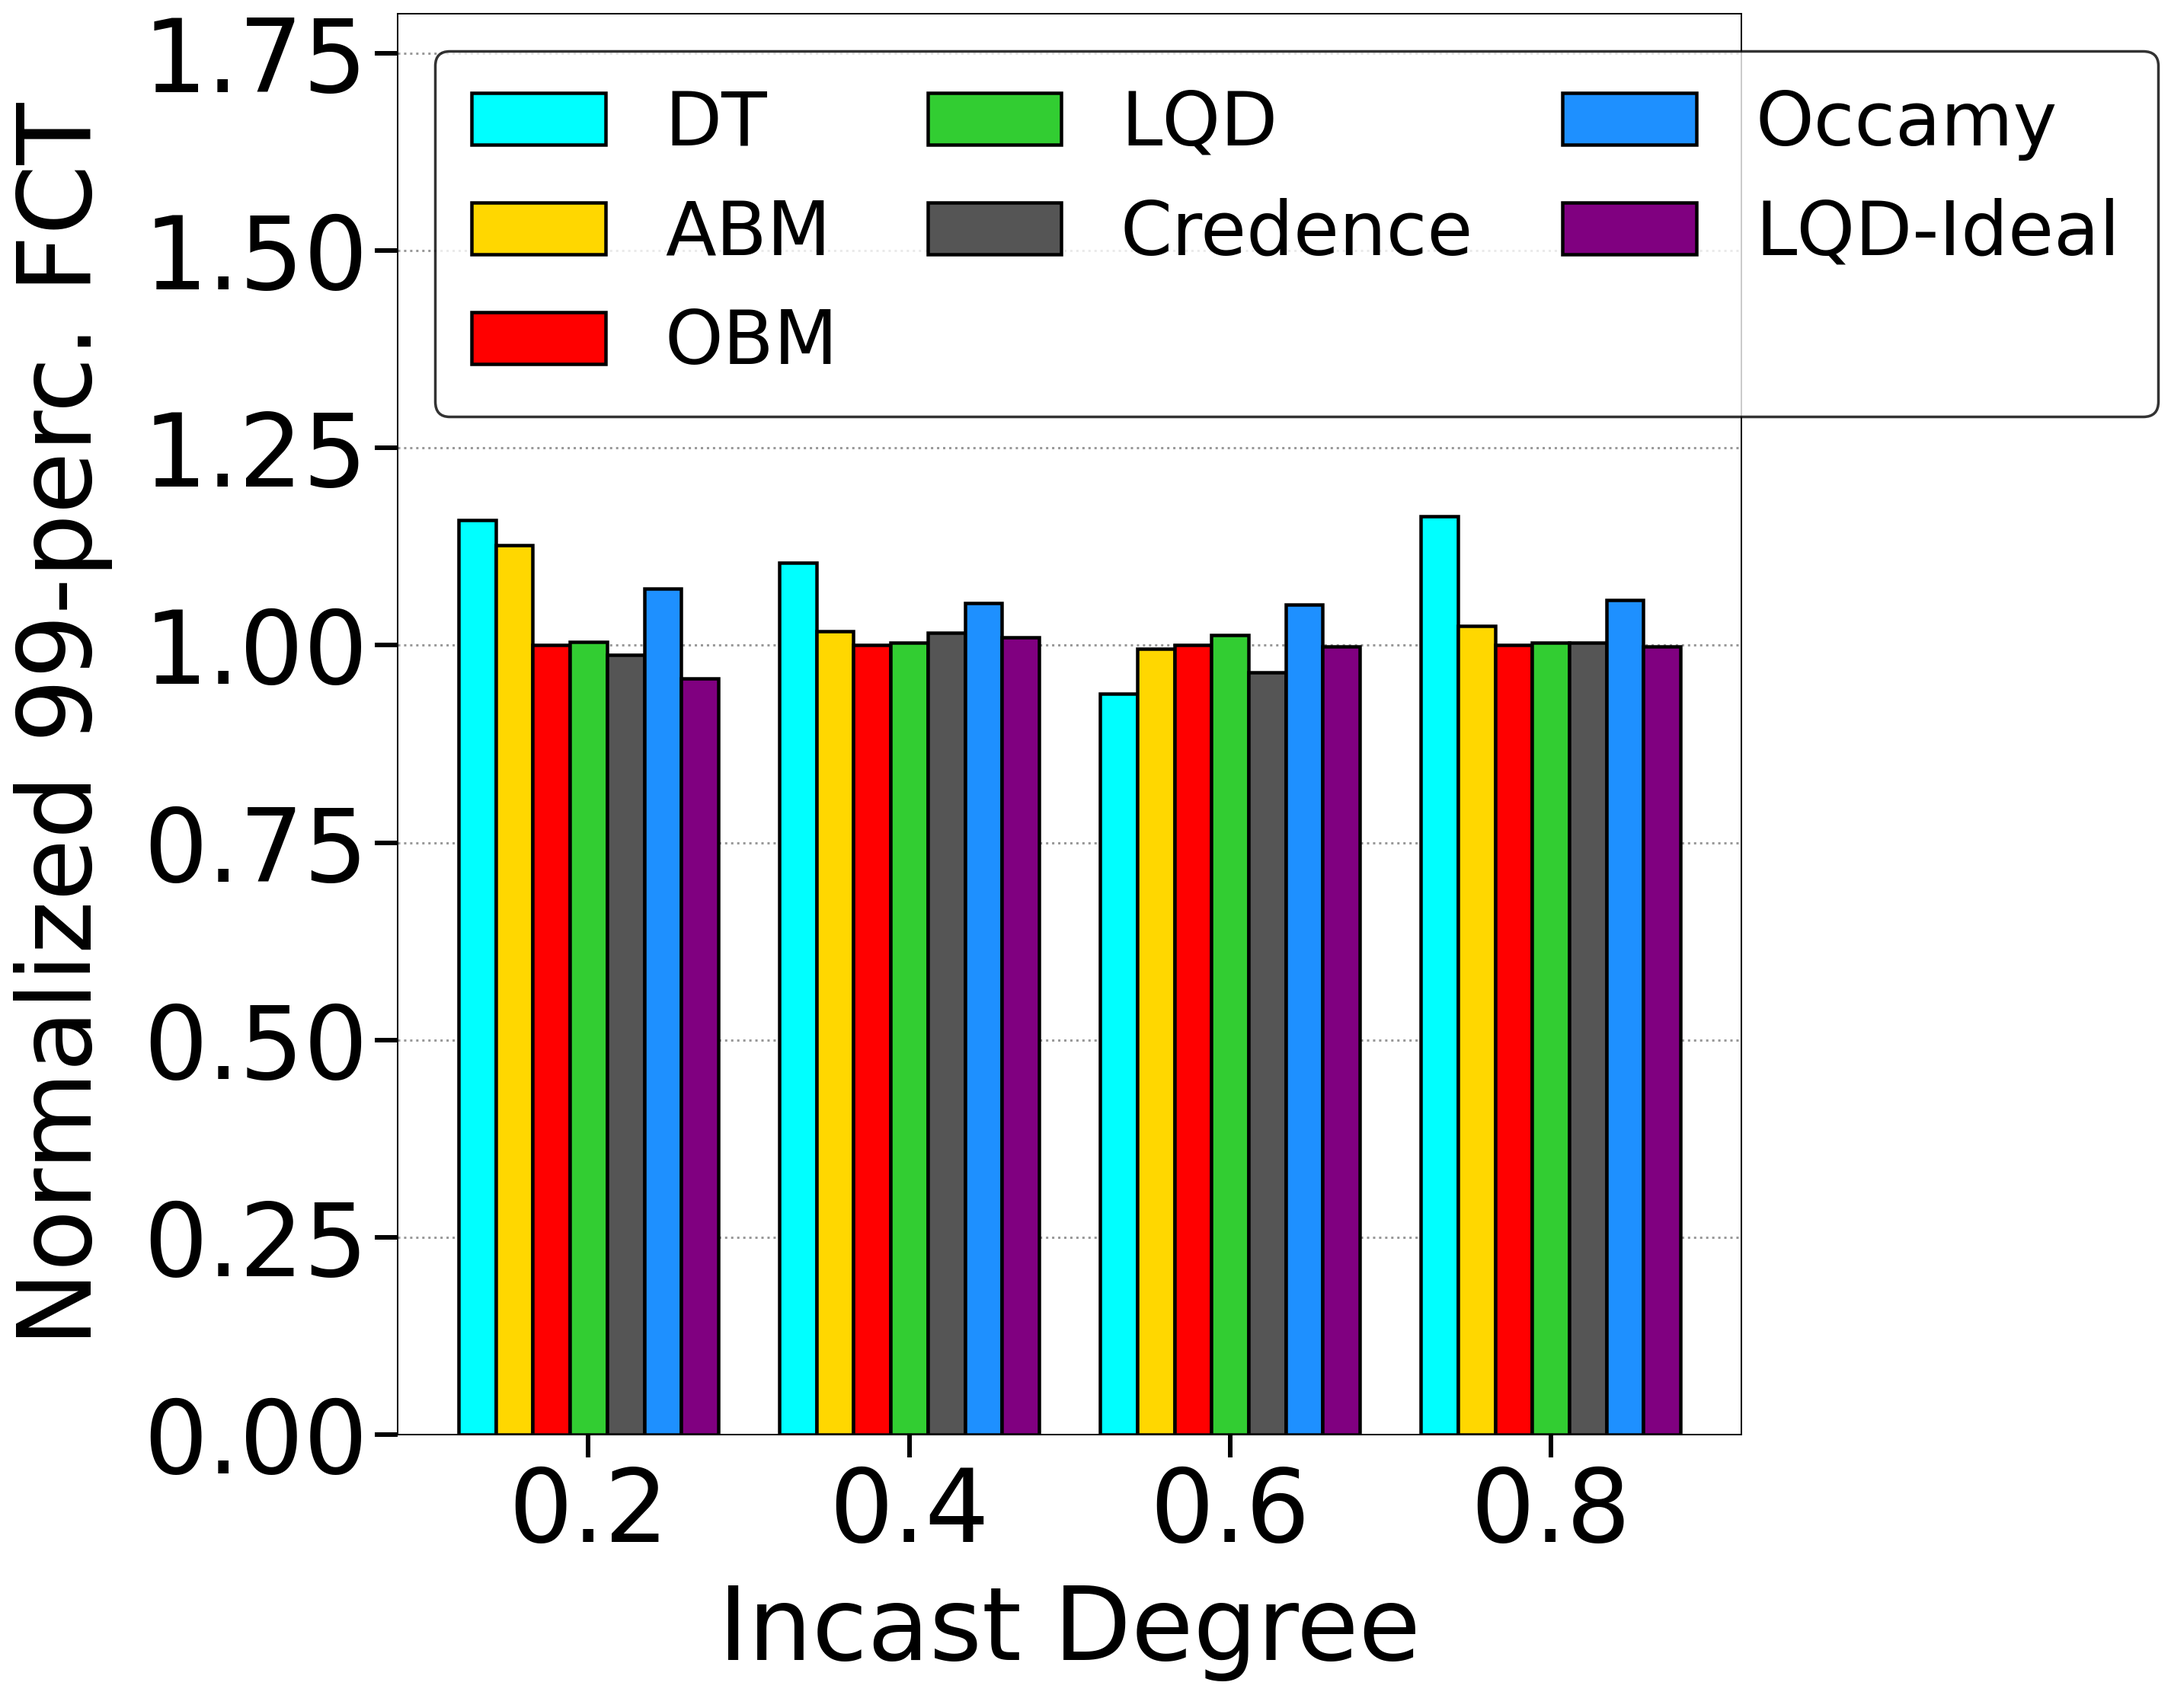
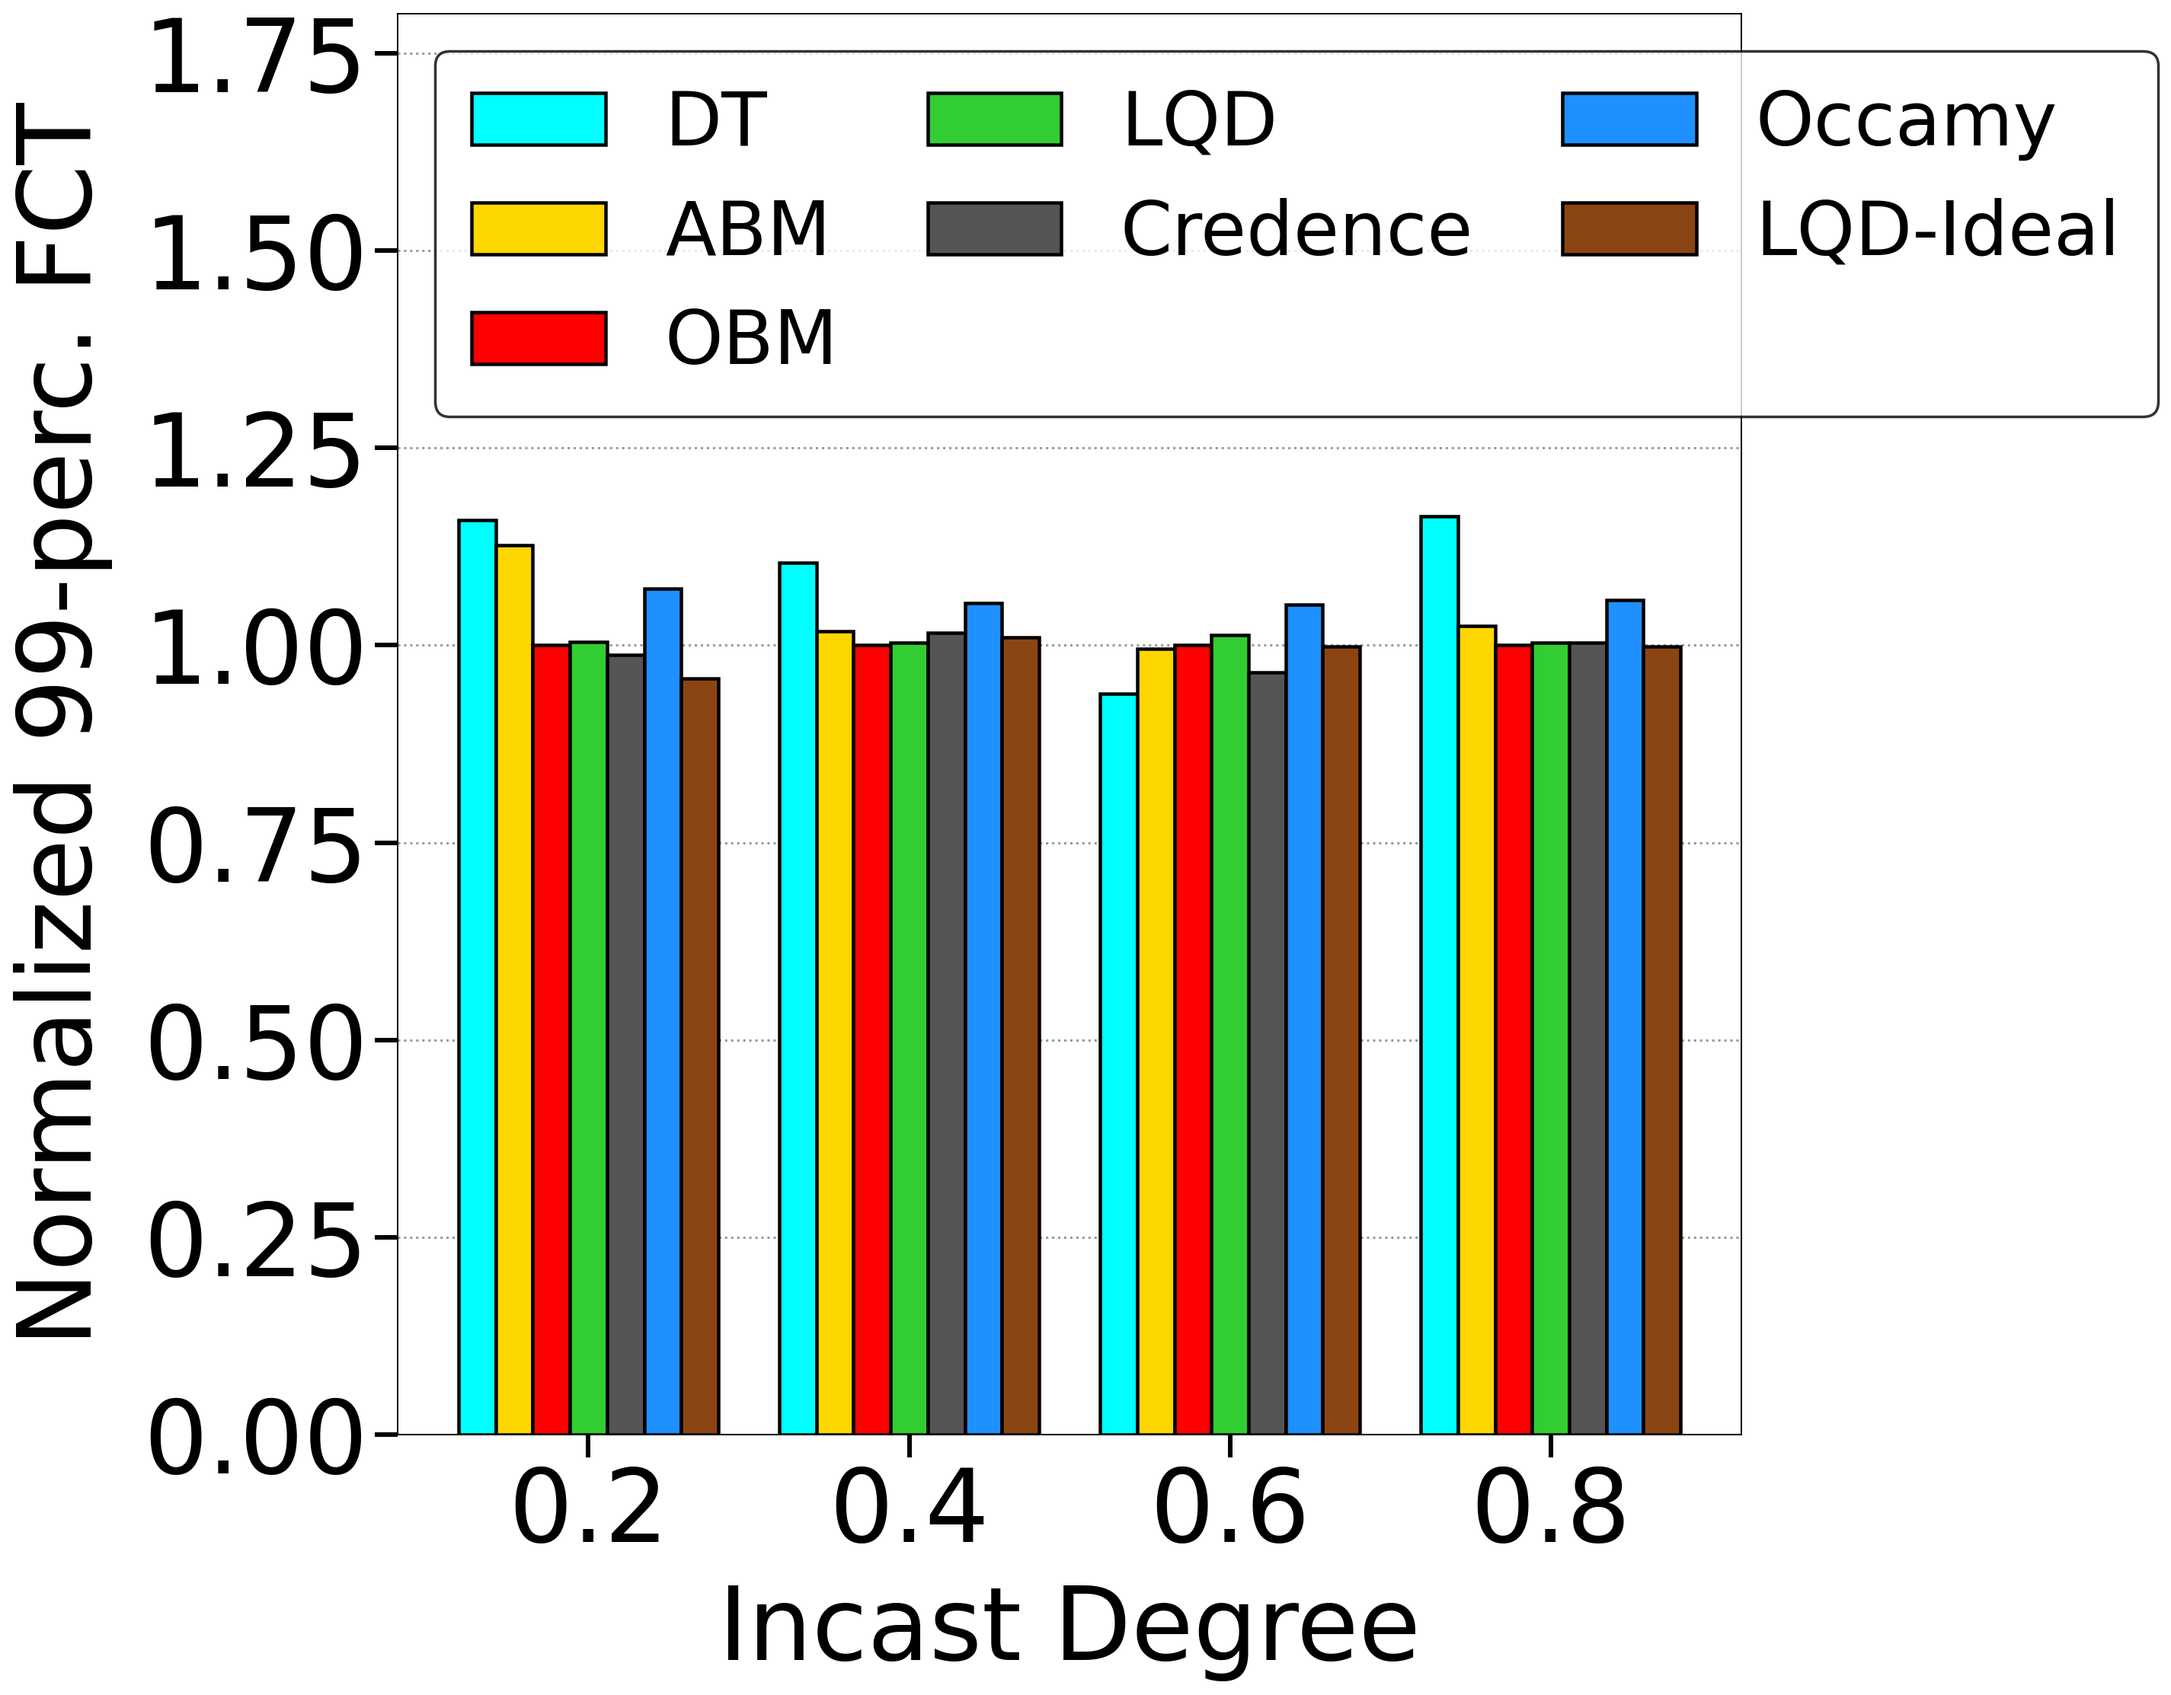
updated graph for new ideal lqd for incast --need to improve aesthetics

diff --git a/plot_fct.py b/plot_fct.py
@@ -38,7 +38,7 @@ ALGO_META = {
     "lqd":      ("LQD",      "#32CD32"),
     "credence": ("Credence", "#555555"),
     "occamy":   ("Occamy",   "#1E90FF"), # Added Occamy (Blue)
-    "lqd-ideal": ("LQD-Ideal", "#800080")  # Added LQD-Ideal (Purple)
+    "lqd-ideal": ("LQD-Ideal", "#8B4513")  # Added LQD-Ideal (Purple)
 }
 
 # Updated order to include Occamy and LQD-Ideal
